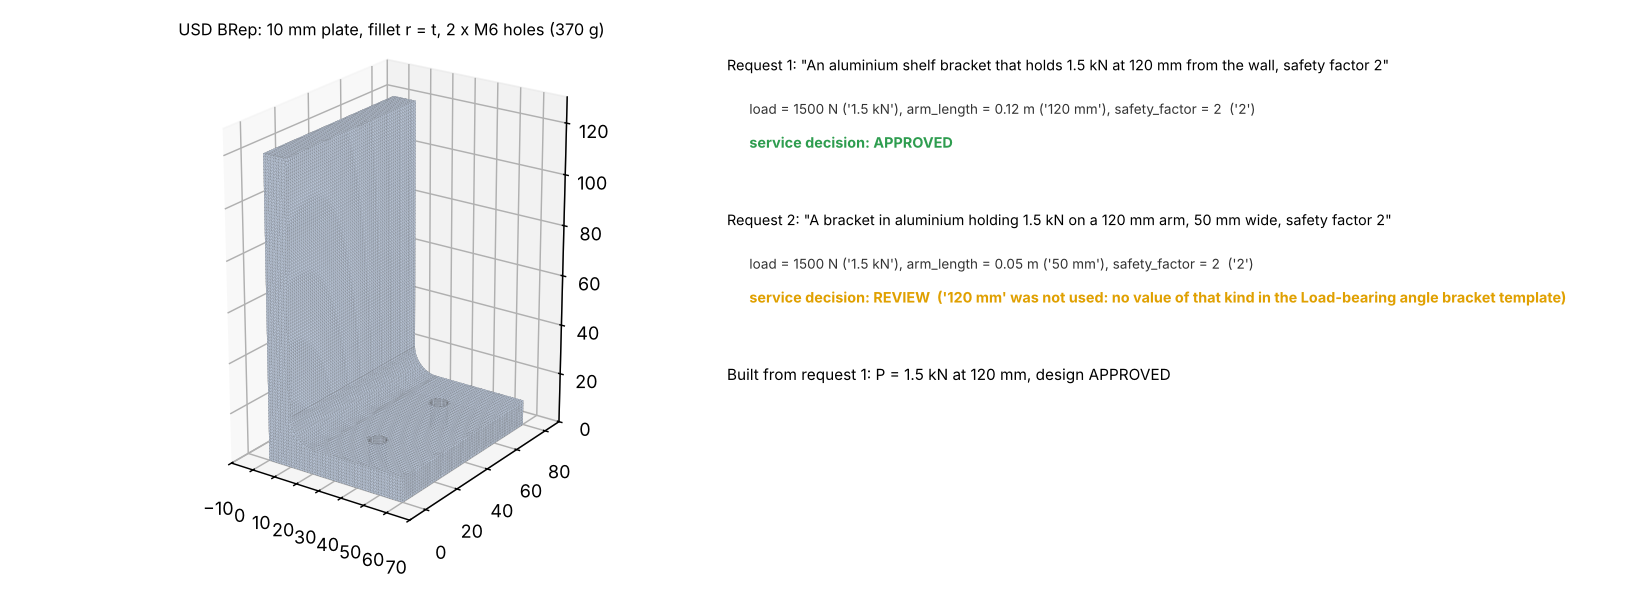
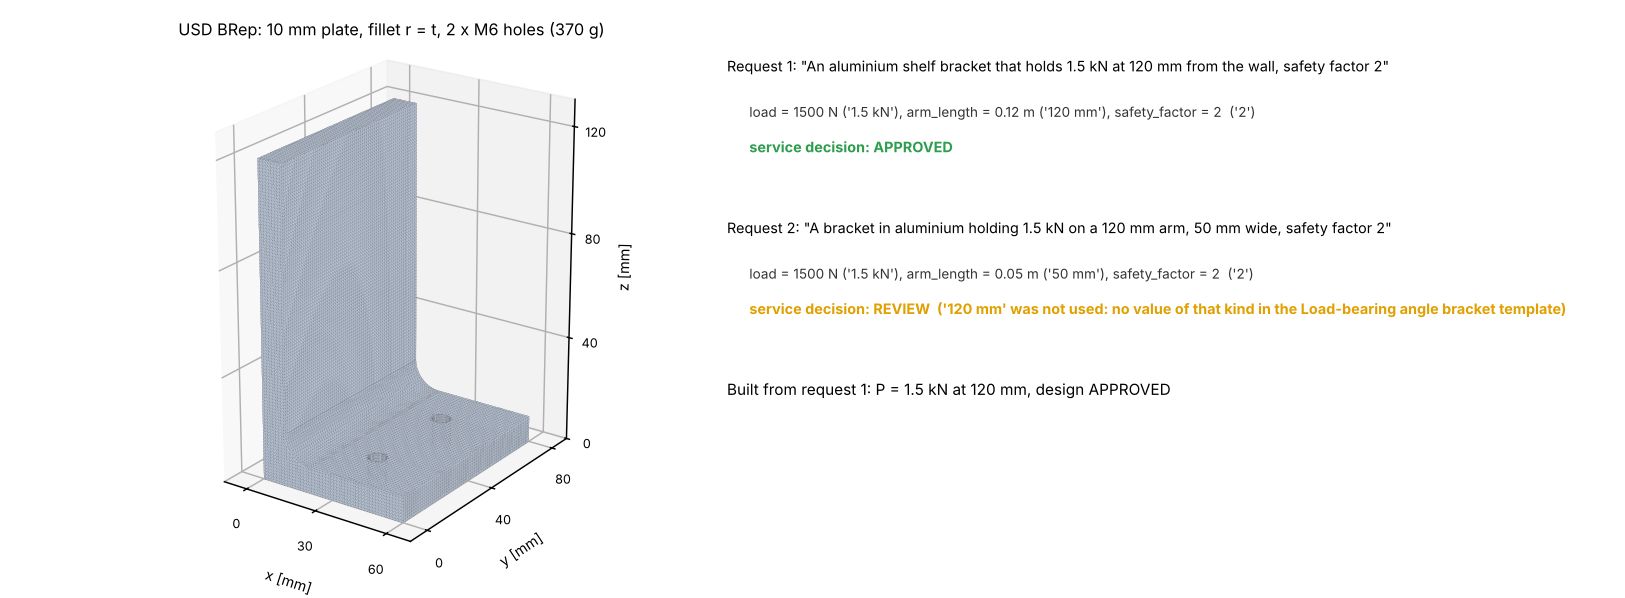
Example 11: show what the service can certify and where the surrogate pays; example 15: readable 3-D axes
11: each FNO answer is drawn with its certified L2 bound next to its true error and the 5 % limit (the bound is
about 14x the true error, so no answer can be certified without a reference); a measured cost-against-grid panel
shows the FNO overtaking the FV solve from about 100 x 100 cells (4x at 256 x 256). The README explains both.
15: fewer ticks and mm labels on the 3-D bracket. Both re-run (same results to round-off).

Claude-Session: https://claude.ai/code/session_0196ouixTBTxQjf5HW5ABt6E

diff --git a/examples/nvidia/11_model_services_physicsnemo_operator/run.py b/examples/nvidia/11_model_services_physicsnemo_operator/run.py
@@ -37,6 +37,27 @@ def layouts(m, n, seed, alpha=2.0, tau=3.0, hi=12.0, lo=3.0):
     return ob.threshold_coefficient(ob.periodic_grf(m, (n, n), alpha=alpha, tau=tau, seed=seed), high=hi, low=lo)
 
 
+def cost_scaling(sizes, reps: int = 4) -> list[dict]:
+    """Time per layout of the FV solve and of an FNO inference with the served architecture, by grid size. The FNO's
+    cost does not depend on its weights, so an untrained copy at each size is timed; no accuracy is claimed."""
+    import time
+    out = []
+    for n in sizes:
+        A = layouts(reps, n, 9)
+        t = time.perf_counter()
+        for a in A:
+            ob.darcy_2d(a)
+        fv = (time.perf_counter() - t) / reps
+        net = physicsnemo_fno(n, latent_channels=32, num_fno_layers=4, num_fno_modes=min(12, n // 2),
+                              decoder_layer_size=64)
+        net.predict(A[:1])
+        t = time.perf_counter()
+        for i in range(reps):
+            net.predict(A[i:i + 1])
+        out.append({"n": n, "fv_ms": 1e3 * fv, "fno_ms": 1e3 * (time.perf_counter() - t) / reps})
+    return out
+
+
 def main(smoke=False, base=None):
     base = base or HERE
     OUT = os.path.join(base, "results")
@@ -96,11 +117,16 @@ def main(smoke=False, base=None):
                         e_s = float(np.linalg.norm(u - ref) / np.linalg.norm(ref))
                         e_f = float(np.linalg.norm(u_final - ref) / np.linalg.norm(ref))
                         failed = [ch["name"] for ch in r["trust"]["checks"] if ch["passed"] is False]
+                        bound = next(ch["value"] for ch in r["trust"]["checks"]
+                                     if ch["name"] == "PDE residual (certified L2 error bound)")
                         rows.append({"group": grp, "surrogate_decision": r["trust"]["decision"], "failed": failed,
                                      "routed_to": routed, "solver_decision": fv_dec, "surrogate_rel_l2": e_s,
-                                     "final_rel_l2": e_f, "surrogate_ms": t_s, "fallback_ms": t_f})
+                                     "final_rel_l2": e_f, "certified_l2_bound": bound,
+                                     "surrogate_ms": t_s, "fallback_ms": t_f})
         finally:
             srv.shutdown()
+        with info.step("cost against grid size (FV solve vs FNO inference, same architecture)"):
+            scaling = cost_scaling((16, 32) if smoke else (32, 64, 128, 256))
         by = {g: [r for r in rows if r["group"] == g] for g in req}
         ood = [r for g, rs in by.items() if g != "in-distribution" for r in rs]
         checks = [{"name": "every surrogate answer carries a trust report", "value": None, "limit": None,
@@ -120,8 +146,9 @@ def main(smoke=False, base=None):
                           "mean over the requests of the group, against the FV solution")
         info.mark("PhysicsNeMo FNO", ran=True, how=f"{tr.run.steps} steps, CPU")
         info.mark("PINNeAPPle Model Services", ran=True, how=url)
-        _figures(OUT, rows, req, checks, decision)
+        _figures(OUT, rows, req, checks, decision, scaling)
         summary = {"decision": decision, "requests": rows, "train_steps": tr.run.steps, "train_wall_s": tr.run.wall_s,
+                   "cost_scaling": scaling,
                    "groups": {g: {"n": len(rs), "approved": sum(r["surrogate_decision"] == "APPROVED" for r in rs),
                                   "routed_to_solver": sum(r["routed_to"] == "solver" for r in rs),
                                   "surrogate_rel_l2_mean": float(np.mean([r["surrogate_rel_l2"] for r in rs])),
@@ -136,36 +163,53 @@ def main(smoke=False, base=None):
     return summary
 
 
-def _figures(OUT, rows, req, checks, decision):
+def _figures(OUT, rows, req, checks, decision, scaling):
     import matplotlib
 
     matplotlib.use("Agg")
     import matplotlib.pyplot as plt
     col = {"APPROVED": "#2e9d4f", "REVIEW": "#e0a000", "REJECT": "#c0392b"}
-    fig, axs = plt.subplots(1, 2, figsize=(11.5, 3.9))
+    fig, axs = plt.subplots(1, 3, figsize=(16, 4.3), gridspec_kw={"width_ratios": [1.3, 1, 1]})
     groups = list(req)
     for i, g in enumerate(groups):
         rs = [r for r in rows if r["group"] == g]
         for j, r in enumerate(rs):
-            axs[0].plot(i + (j - len(rs) / 2) * 0.02, r["surrogate_rel_l2"], "o", color=col[r["surrogate_decision"]],
-                        ms=5)
+            x = i + (j - len(rs) / 2) * 0.025
+            axs[0].plot(x, r["surrogate_rel_l2"], "o", color=col[r["surrogate_decision"]], ms=5)
+            axs[0].plot(x, r["certified_l2_bound"], "^", mfc="none", color="#555555", ms=5)
     for d, cc in col.items():
-        axs[0].plot([], [], "o", color=cc, label=f"surrogate answer: {d}")
+        if any(r["surrogate_decision"] == d for r in rows):
+            axs[0].plot([], [], "o", color=cc, label=f"true error, answer {d}")
+    axs[0].plot([], [], "^", mfc="none", color="#555555", label="certified error bound (from the residual)")
+    axs[0].axhline(0.05, color="k", ls="--", lw=1, label="limit on the certified bound (5 %)")
     axs[0].set_xticks(range(len(groups)))
     axs[0].set_xticklabels(groups, fontsize=8)
     axs[0].set_yscale("log")
-    axs[0].set_ylabel("true relative L2 error (vs FV)")
-    axs[0].set_title("PhysicsNeMo FNO answers, judged without the reference", fontsize=9)
-    axs[0].legend(fontsize=7)
+    axs[0].set_ylabel("relative L2 error")
+    axs[0].set_title("FNO answers: true error vs what the service can certify\n(no reference at serving time; "
+                     "a bound above 5 % is not approved)", fontsize=9)
+    axs[0].legend(fontsize=7, loc="upper left")
     axs[0].grid(alpha=0.3)
     s_ms = [r["surrogate_ms"] for r in rows]
     f_ms = [r["fallback_ms"] for r in rows if r["routed_to"] == "solver"]
-    axs[1].hist([s_ms, f_ms], bins=12, label=["surrogate request", "solver fallback request"],
-                color=["#4f7d00", "#b88a00"])
-    axs[1].set_xlabel("round trip [ms] (inference + checks)")
+    axs[1].hist([s_ms, f_ms], bins=12, label=["FNO request", "FV solver request"], color=["#4f7d00", "#b88a00"])
+    axs[1].set_xlabel("round trip [ms] (inference + checks + HTTP)")
     axs[1].set_ylabel("requests")
     axs[1].legend(fontsize=7)
-    axs[1].set_title("Latency through /v1/infer", fontsize=9)
+    axs[1].set_title("Latency through /v1/infer at 32 x 32:\nthe FV solve is tiny, the FNO pays torch overhead",
+                     fontsize=9)
+    n = [r["n"] for r in scaling]
+    axs[2].loglog(n, [r["fv_ms"] for r in scaling], "s-", color="#b88a00", label="FV solve")
+    axs[2].loglog(n, [r["fno_ms"] for r in scaling], "o-", color="#4f7d00", label="FNO inference (same architecture)")
+    axs[2].set_xticks(n)
+    axs[2].set_xticklabels([str(k) for k in n])
+    axs[2].minorticks_off()
+    axs[2].set_xlabel("grid n (n x n cells)")
+    axs[2].set_ylabel("time per layout [ms]")
+    axs[2].set_title("Where a surrogate pays: cost against grid size\n(measured on this CPU, one layout per call)",
+                     fontsize=9)
+    axs[2].legend(fontsize=7)
+    axs[2].grid(alpha=0.3, which="both")
     fig.tight_layout()
     fig.savefig(os.path.join(OUT, "routing.png"), dpi=130)
     plt.close(fig)

diff --git a/examples/nvidia/15_model_services_brep_bracket/run.py b/examples/nvidia/15_model_services_brep_bracket/run.py
@@ -135,6 +135,12 @@ def _figures(OUT, rep, answers, checks, decision, t, P, arm):
     ax.set_ylim(-10, 90)
     ax.set_zlim(0, 130)
     ax.set_box_aspect((80, 100, 130))
+    ax.set_xticks([0, 30, 60])
+    ax.set_yticks([0, 40, 80])
+    ax.set_zticks([0, 40, 80, 120])
+    ax.tick_params(labelsize=7, pad=1)
+    for setl, lab in ((ax.set_xlabel, "x [mm]"), (ax.set_ylabel, "y [mm]"), (ax.set_zlabel, "z [mm]")):
+        setl(lab, fontsize=8, labelpad=2)
     ax.view_init(22, -55)
     ax.set_title(f"USD BRep: {t * 1e3:g} mm plate, fillet r = t, 2 x M6 holes ({rep.raw['mass']['mass'] * 1e3:.0f} g)",
                  fontsize=9)

diff --git a/examples/nvidia/11_model_services_physicsnemo_operator/README.md b/examples/nvidia/11_model_services_physicsnemo_operator/README.md
@@ -15,20 +15,38 @@ answer lets a client route around a surrogate that is wrong, and shows when the 
 | services and client (`grid_operator_service`, `darcy_solver_service`) | PINNeAPPle Model Services | yes |
 
 ```bash
-python examples/nvidia/11_model_services_physicsnemo_operator/run.py     # ~3 min on 4 CPU cores
+python examples/nvidia/11_model_services_physicsnemo_operator/run.py     # ~4 min on 4 CPU cores
 ```
 
 ## Results (this run: 4-core Xeon 2.1 GHz)
 
 - 36 requests: 20 in-distribution layouts, 8 with higher contrast (k 2 / 20), 8 with finer features.
-- **No surrogate answer was APPROVED**:
-  - In-distribution: true error 1.9 %, but every answer fails the certified residual bounds, and 15 of 20 fail the
-    energy balance (the same finding as example 07).
-  - Higher contrast: error 25 %; every check fails, including the training envelope.
-  - Finer features: error 1.9 %; residual bounds fail. The envelope check did *not* flag these: the residual did.
-- Every request was routed to the solver, whose answers were all APPROVED (exact to round-off).
-- At this size the solver is also faster: median 7.7 ms per request against 20 ms for the FNO. **Decision for the
-  served system: APPROVED** (every answer delivered is correct); for the surrogate alone: not usable here.
+- **No surrogate answer was APPROVED, and that is the intended behaviour of a reference-free check:**
+  - At serving time there is no reference. The service can only certify an upper bound on the error, computed from
+    the PDE residual, and it approves an answer when that certified bound is at most 5 % (the library's fixed
+    tolerance, `darcy_checks.DEFAULT_TOLERANCES`).
+  - In-distribution: true error **1.0 to 5.0 %** (median 1.9 %), certified bound **16 to 35 %**. The bound is about
+    **14 times** the true error: the FNO's fields carry a small, rough residual that the bound has to assume could be
+    error. 15 of 20 also miss the 2 % energy balance (the same finding as example 07).
+  - So the service cannot *certify* these answers. Approving them on their true error would need the reference the
+    service does not have. Loosening the limit to about 35 % would admit answers it cannot tell from a 35 % error.
+  - Higher contrast: true error 25 %, bound 190 to 360 %; every check fails, including the training envelope for 2.
+  - Finer features: true error 1.9 %; residual bounds fail. The envelope check did *not* flag these: the residual did.
+- Every request was routed to the solver, whose answers were all APPROVED (exact to round-off). **Decision for the
+  served system: APPROVED** (every answer delivered is correct). For the surrogate alone: not certifiable here.
+- **Latency.** At 32 x 32 the FV solve is tiny (2.4 ms; 9.6 ms round trip with checks and HTTP), while the FNO pays
+  the fixed cost of a torch forward pass (10 ms; 26 ms round trip). The third panel of `routing.png` times both, one
+  layout per call, against the grid size, with the served FNO architecture (its cost does not depend on its weights):
 
-Figures in `results/`: `architecture.png`, `routing.png` (true error of each surrogate answer coloured by its
-decision; latencies), `checks.png`.
+  | grid | FV solve | FNO inference |
+  |---|---|---|
+  | 32 x 32 | 2.4 ms | 10.2 ms |
+  | 64 x 64 | 8.9 ms | 11.6 ms |
+  | 128 x 128 | 57 ms | 29 ms |
+  | 256 x 256 | 415 ms | 106 ms |
+
+  The surrogate pays from about 100 x 100 on this CPU, 4x faster at 256 x 256. A surrogate worth serving here would
+  be trained at that size and would need a smaller certified bound (a smoother residual) to be approved.
+
+Figures in `results/`: `architecture.png`, `routing.png` (true error and certified bound of each FNO answer with
+the limit; latency through `/v1/infer`; cost against grid size), `checks.png`.
